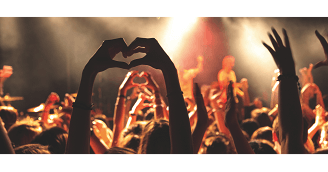
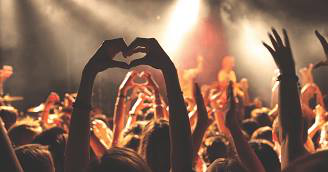
Udseende

diff --git a/HowlOut/Views/Inspect/InspectEvent.xaml b/HowlOut/Views/Inspect/InspectEvent.xaml
@@ -11,6 +11,7 @@
 			<Grid.RowDefinitions>
 				<RowDefinition Height="auto"/>
 				<RowDefinition Height="auto"/>
+				<RowDefinition Height="2"/>
 				<RowDefinition Height="auto"/>
 				<RowDefinition Height="2"/>
 				<RowDefinition Height="0"/>
@@ -20,7 +21,7 @@
 
 			<Grid Grid.Row="0" RowSpacing="0" ColumnSpacing="0" x:Name="quickInfo">
 				<Grid.RowDefinitions>
-					<RowDefinition Height="100"/>
+					<RowDefinition Height="150" x:Name="BannerHeight"/>
 					<RowDefinition Height="30"/>
 					<RowDefinition Height="8"/>
 					<RowDefinition Height="22"/>
@@ -40,7 +41,7 @@
 					<ColumnDefinition Width="4"/>
 				</Grid.ColumnDefinitions>
 
-				<Image Grid.Row="0" Grid.RowSpan="6" Grid.Column="0" Grid.ColumnSpan="9" Source="Party.png" VerticalOptions="StartAndExpand" HorizontalOptions="FillAndExpand"></Image>
+				<Image Grid.Row="0" Grid.RowSpan="4" Grid.Column="0" Grid.ColumnSpan="9" Source="Party.png"></Image>
 				<Image Grid.Row="0" Grid.RowSpan="6" Grid.Column="0" Grid.ColumnSpan="9" Source="gradiant_bg.png" VerticalOptions="StartAndExpand"></Image>
 				<BoxView Grid.Row="2" Grid.RowSpan="4" Grid.Column="0" Grid.ColumnSpan="9" BackgroundColor="White"></BoxView>
 
@@ -76,55 +77,76 @@
 					<Button Style="{DynamicResource SmallTypeButtonStyle}" Text="{Binding EventType2}" IsVisible="{Binding EventType2Visible}" x:Name="eventType2"></Button>
 					<Button Style="{DynamicResource SmallTypeButtonStyle}" Text="{Binding EventType3}" IsVisible="{Binding EventType3Visible}" x:Name="eventType3"></Button>
 				</StackLayout>
-				<Button Grid.Row="0" Grid.RowSpan="6" Grid.Column="0" Grid.ColumnSpan="9" x:Name="detailsButton" ></Button>
+				<Button Grid.Row="0" Grid.RowSpan="6" Grid.Column="0" Grid.ColumnSpan="9" ></Button>
 			</Grid>
 
-			<StackLayout Grid.Row="0" Padding="0" VerticalOptions="CenterAndExpand" MinimumHeightRequest="80" x:Name="detailedInfo">
+			<StackLayout Grid.Row="0" Padding="0" VerticalOptions="CenterAndExpand" x:Name="detailedInfo">
 				<Grid>
 					<Grid.RowDefinitions>
 						<RowDefinition Height="200"/>
-						<RowDefinition Height="210"/>
+						<RowDefinition Height="Auto"/>
 					</Grid.RowDefinitions>
 					<StackLayout Grid.Row="0" x:Name="mapLayout"></StackLayout>
 					<StackLayout Grid.Row="0"> 
 						<Button x:Name="mapButton" BackgroundColor="#00000000" VerticalOptions="FillAndExpand"/>
 					</StackLayout>
-					<StackLayout Grid.Row="1" Padding="0,20,0,0">
+
+					<StackLayout Grid.Row="1" Padding="10,10,10,10">
 						<StackLayout x:Name="addressLayout" ></StackLayout>
 						<StackLayout Padding="0,10,0,10"> <local:Line/> </StackLayout>
 						<StackLayout Orientation="Horizontal">
-							<Label Text="{DynamicResource TextColor}" x:Name="StartTime"/>	
+							<Label TextColor="{DynamicResource NormalTextColor}" x:Name="StartTime"/>	
 						</StackLayout>
 						<StackLayout Orientation="Horizontal">
-							<Label Text="{DynamicResource TextColor}" x:Name="EndTime"/>	
+							<Label TextColor="{DynamicResource NormalTextColor}" x:Name="EndTime"/>	
 						</StackLayout>
-						<Label Text="{DynamicResource TextColor}" x:Name="RoughTime"/>
-						<StackLayout Padding="0,10,0,0"> <local:Line/> </StackLayout>
+						<Label TextColor="{DynamicResource NormalTextColor}" x:Name="RoughTime"/>
 					</StackLayout>
 				</Grid>
 			</StackLayout>
 
-			<!-- <StackLayout Grid.Row="2" Padding="0"> <local:Line/> </StackLayout> -->
 
-			<StackLayout Grid.Row="2" Padding="0, 10, 0, 10" VerticalOptions="CenterAndExpand" BackgroundColor="White">
+			<Grid Grid.Row="0" WidthRequest="70" HorizontalOptions="EndAndExpand">
+				<Grid.ColumnDefinitions>
+					<ColumnDefinition Width="50"/>
+					<ColumnDefinition Width="20"/>
+				</Grid.ColumnDefinitions>
+
+				<Grid.RowDefinitions>
+					<RowDefinition Height="100"/>
+					<RowDefinition Height="50"/>
+				</Grid.RowDefinitions>
+
+				<Button Grid.Column="0" Grid.Row="1" BorderRadius="25" BackgroundColor="{DynamicResource HowlOut}" x:Name="detailsButton" />
+			</Grid>
+
+			<StackLayout Grid.Row="2" Padding="10,0,10,0"> <local:Line/> </StackLayout> 
+
+			<StackLayout Grid.Row="3" Padding="10, 20, 10, 20" VerticalOptions="CenterAndExpand" BackgroundColor="White">
 				<Label Style="{DynamicResource DescriptionStyle}" x:Name="eventDescription" />
 			</StackLayout>
 
-			<StackLayout Grid.Row="3" Padding="0"> <local:Line/> </StackLayout> 
+			<StackLayout Grid.Row="4" Padding="10,0,10,0"> <local:Line/> </StackLayout> 
 
-			<Grid Grid.Row="5">
-				<StackLayout Orientation="Horizontal" VerticalOptions="CenterAndExpand" HorizontalOptions="CenterAndExpand">
-					<ContentView x:Name="ProfileContent"/>
-					<ContentView x:Name="GroupContent"/>
-				</StackLayout>
+			<Grid Grid.Row="6">
+				<Grid.ColumnDefinitions>
+					<ColumnDefinition Width="*"/>
+					<ColumnDefinition Width="auto"/>
+					<ColumnDefinition Width="*"/>
+					<ColumnDefinition Width="auto"/>
+					<ColumnDefinition Width="*"/>
+				</Grid.ColumnDefinitions>
+
+					<ContentView Grid.Column="1" x:Name="ProfileContent"/>
+					<ContentView Grid.Column="3" x:Name="GroupContent"/>
 			</Grid>
 
-			<StackLayout Grid.Row="6" x:Name="manageSpecific" Orientation="Horizontal" VerticalOptions ="CenterAndExpand" HorizontalOptions="CenterAndExpand">
+			<StackLayout Grid.Row="7" x:Name="manageSpecific" Orientation="Horizontal" VerticalOptions ="CenterAndExpand" HorizontalOptions="CenterAndExpand">
 				<Button Text="Invite" Style="{DynamicResource ButtonStyle}" x:Name="inviteButton" HorizontalOptions="CenterAndExpand" WidthRequest="80"></Button>
 				<Button Text="Leave" Style="{DynamicResource ButtonStyle}" x:Name="editLeaveButton" HorizontalOptions="CenterAndExpand" WidthRequest="80"></Button>
 			</StackLayout>
 
-			<StackLayout Grid.Row="6" x:Name="searchSpecific" Orientation="Horizontal" VerticalOptions ="CenterAndExpand" HorizontalOptions="CenterAndExpand">
+			<StackLayout Grid.Row="7" x:Name="searchSpecific" Orientation="Horizontal" VerticalOptions ="CenterAndExpand" HorizontalOptions="CenterAndExpand">
 				<Button Text="Join" Style="{DynamicResource ButtonStyle}" x:Name="joinButton" HorizontalOptions="CenterAndExpand" WidthRequest="80"></Button>
 				<Button Text="Follow" Style="{DynamicResource ButtonStyle}" x:Name="followButton" HorizontalOptions="CenterAndExpand" WidthRequest="80"></Button>
 			</StackLayout>

diff --git a/HowlOut/Views/Components/SearchEventTemplate.xaml b/HowlOut/Views/Components/SearchEventTemplate.xaml
@@ -6,7 +6,7 @@
 	<ContentView.Content>
 		<Grid RowSpacing="0" ColumnSpacing="0">
 			<Grid.RowDefinitions>
-				<RowDefinition Height="100"/>
+				<RowDefinition Height="{Binding BannerHeight}"/>
 				<RowDefinition Height="30"/>
 				<RowDefinition Height="8"/>
 				<RowDefinition Height="22"/>
@@ -26,7 +26,7 @@
 				<ColumnDefinition Width="4"/>
 			</Grid.ColumnDefinitions>
 
-			<Image Grid.Row="0" Grid.RowSpan="6" Grid.Column="0" Grid.ColumnSpan="9" Source="Party.png" VerticalOptions="StartAndExpand" HorizontalOptions="FillAndExpand"></Image>
+			<Image Grid.Row="0" Grid.RowSpan="4" Grid.Column="0" Grid.ColumnSpan="9" Source="Party.png"></Image>
 
 			<Image Grid.Row="0" Grid.RowSpan="6" Grid.Column="0" Grid.ColumnSpan="9" Source="gradiant_bg.png" VerticalOptions="StartAndExpand"></Image>
 
@@ -88,6 +88,8 @@
 				<Button Style="{DynamicResource SmallTypeButtonStyle}" Text="{Binding EventType2}" IsVisible="{Binding EventType2Visible}" x:Name="eventType2"></Button>
 				<Button Style="{DynamicResource SmallTypeButtonStyle}" Text="{Binding EventType3}" IsVisible="{Binding EventType3Visible}" x:Name="eventType3"></Button>
 			</StackLayout>
+
+			<!-- <Image Grid.Row="0" Grid.RowSpan="6" Grid.Column="0" Grid.ColumnSpan="9" Source="Party.png"></Image> -->
 
 		</Grid>
 	</ContentView.Content>

diff --git a/HowlOut/Views/EventView.xaml b/HowlOut/Views/EventView.xaml
@@ -55,7 +55,7 @@
 
 					<ListView x:Name="SearchEventList" 
 			  			HasUnevenRows="false"
-						RowHeight="200"
+						RowHeight="210"
 						SeparatorVisibility="None"
 						CachingStrategy="RecycleElement"
 						BackgroundColor="Transparent">

diff --git a/Droid/Resources/Resource.designer.cs b/Droid/Resources/Resource.designer.cs
@@ -26,8 +26,17 @@ namespace HowlOut.Droid
 		
 		public static void UpdateIdValues()
 		{
+<<<<<<< Updated upstream
 			global::ModernHttpClient.Resource.String.library_name = global::HowlOut.Droid.Resource.String.library_name;
 			global::Plugin.LocalNotifications.Resource.Drawable.plugin_lc_smallicon = global::HowlOut.Droid.Resource.Drawable.plugin_lc_smallicon;
+=======
+<<<<<<< Updated upstream
+<<<<<<< HEAD
+			global::ModernHttpClient.Resource.String.library_name = global::HowlOut.Droid.Resource.String.library_name;
+=======
+			global::Plugin.LocalNotifications.Resource.Drawable.plugin_lc_smallicon = global::HowlOut.Droid.Resource.Drawable.plugin_lc_smallicon;
+>>>>>>> Stashed changes
+>>>>>>> Stashed changes
 			global::Xamarin.Forms.Platform.Resource.Animation.abc_fade_in = global::HowlOut.Droid.Resource.Animation.abc_fade_in;
 			global::Xamarin.Forms.Platform.Resource.Animation.abc_fade_out = global::HowlOut.Droid.Resource.Animation.abc_fade_out;
 			global::Xamarin.Forms.Platform.Resource.Animation.abc_grow_fade_in_from_bottom = global::HowlOut.Droid.Resource.Animation.abc_grow_fade_in_from_bottom;
@@ -1486,6 +1495,18 @@ namespace HowlOut.Droid
 			global::Xamarin.Forms.Platform.Resource.Styleable.ViewStubCompat_android_id = global::HowlOut.Droid.Resource.Styleable.ViewStubCompat_android_id;
 			global::Xamarin.Forms.Platform.Resource.Styleable.ViewStubCompat_android_inflatedId = global::HowlOut.Droid.Resource.Styleable.ViewStubCompat_android_inflatedId;
 			global::Xamarin.Forms.Platform.Resource.Styleable.ViewStubCompat_android_layout = global::HowlOut.Droid.Resource.Styleable.ViewStubCompat_android_layout;
+<<<<<<< Updated upstream
+=======
+<<<<<<< Updated upstream
+=======
+			global::Plugin.LocalNotifications.Resource.Drawable.plugin_lc_smallicon = global::HowlOut.Droid.Resource.Drawable.plugin_lc_smallicon;
+			global::ModernHttpClient.Resource.String.library_name = global::HowlOut.Droid.Resource.String.library_name;
+			global::Xamarin.Forms.Platform.Android.Resource.Attribute.actionBarSize = global::HowlOut.Droid.Resource.Attribute.actionBarSize;
+>>>>>>> parent of 207a854... Revert "Ændringer"
+=======
+			global::ModernHttpClient.Resource.String.library_name = global::HowlOut.Droid.Resource.String.library_name;
+>>>>>>> Stashed changes
+>>>>>>> Stashed changes
 		}
 		
 		public partial class Animation
@@ -4140,14 +4161,23 @@ namespace HowlOut.Droid
 		public partial class String
 		{
 			
+<<<<<<< Updated upstream
+=======
+<<<<<<< Updated upstream
+<<<<<<< HEAD
+>>>>>>> Stashed changes
 			// aapt resource value: 0x7f050041
 			public const int ApplicationName = 2131034177;
 			
 			// aapt resource value: 0x7f050040
 			public const int Hello = 2131034176;
+=======
+			// aapt resource value: 0x7f050042
+			public const int ApplicationName = 2131034178;
+>>>>>>> Stashed changes
 			
-			// aapt resource value: 0x7f05002d
-			public const int abc_action_bar_home_description = 2131034157;
+			// aapt resource value: 0x7f050041
+			public const int Hello = 2131034177;
 			
 			// aapt resource value: 0x7f05002e
 			public const int abc_action_bar_home_description_format = 2131034158;
@@ -4302,8 +4332,8 @@ namespace HowlOut.Droid
 			// aapt resource value: 0x7f05001d
 			public const int common_signin_button_text_long = 2131034141;
 			
-			// aapt resource value: 0x7f050042
-			public const int library_name = 2131034178;
+			// aapt resource value: 0x7f050040
+			public const int library_name = 2131034176;
 			
 			// aapt resource value: 0x7f050022
 			public const int mr_media_route_button_content_description = 2131034146;

diff --git a/HowlOut/Views/Inspect/InspectEvent.xaml.cs b/HowlOut/Views/Inspect/InspectEvent.xaml.cs
@@ -71,6 +71,7 @@ namespace HowlOut
 		{
 			ProfileContent.Content = new ProfileDesignView (eve.Attendees[0], null, null, 130, ProfileDesignView.ProfileDesign.Plain);
 			GroupContent.Content = new ProfileDesignView (null, null, eve, 130, ProfileDesignView.ProfileDesign.Plain);
+			BannerHeight.Height = (0.524 * App.coreView.Width) - 60;
 
 			Position position = App.lastKnownPosition;
 
@@ -89,7 +90,7 @@ namespace HowlOut
 			string [] addressList = new string [3];
 			addressList = Regex.Split(eve.AddressName, ",");
 			for (int i = 0; i < addressList.Length; i++) { 
-				Label label = new Label (); 
+				Label label = new Label () {TextColor = Color.FromHex("646464")}; 
 				label.Text = addressList [i];
 				addressLayout.Children.Add(label);
 			}

diff --git a/HowlOut/ViewModels/EventForLists.cs b/HowlOut/ViewModels/EventForLists.cs
@@ -29,6 +29,8 @@ namespace HowlOut
 		public bool EventType2Visible  {get; set;}
 		public bool EventType3Visible  {get; set;}
 
+		public double BannerHeight { get; set;}
+
 		public EventForLists (Event theGivenEvent)
 		{
 			eve = theGivenEvent;
@@ -69,6 +71,9 @@ namespace HowlOut
 				EventType3Visible = true;
 			}
 
+
+			BannerHeight = (0.524 * App.coreView.Width) - 60;
+			System.Diagnostics.Debug.WriteLine(BannerHeight);
 		}
 
 		private void setTime(DateTime eveTime) {

diff --git a/HowlOut/Views/EventView.xaml.cs b/HowlOut/Views/EventView.xaml.cs
@@ -14,6 +14,8 @@ namespace HowlOut
 		{
 			InitializeComponent ();
 			_dataManager = new DataManager();
+			SearchEventList.RowHeight = (int) ((0.524 * App.coreView.Width) + 32);
+
 			setViewDesign(0, SearchEventList);
 
 			SearchButton.Clicked += (sender, e) => {
@@ -52,6 +54,9 @@ namespace HowlOut
 				}
 			};
 			CreateImage.GestureRecognizers.Add(createImage); 
+
+
+
 		}
 
 		void OnManageItemSelected(object sender, SelectedItemChangedEventArgs e)

diff --git a/HowlOut/Views/Components/ProfileDesignView.xaml.cs b/HowlOut/Views/Components/ProfileDesignView.xaml.cs
@@ -15,7 +15,7 @@ namespace HowlOut
 			ScaleLayout (profile, group, eve, dimentions, design);
 
 			SubjectButton.Clicked += (sender, e) => {
-				App.coreView.setContentView(new InspectController(profile,group,null),"");
+				App.coreView.setContentView(new InspectController(profile,group,eve),"");
 			};
 
 			acceptButton.Clicked += (sender, e) => {
